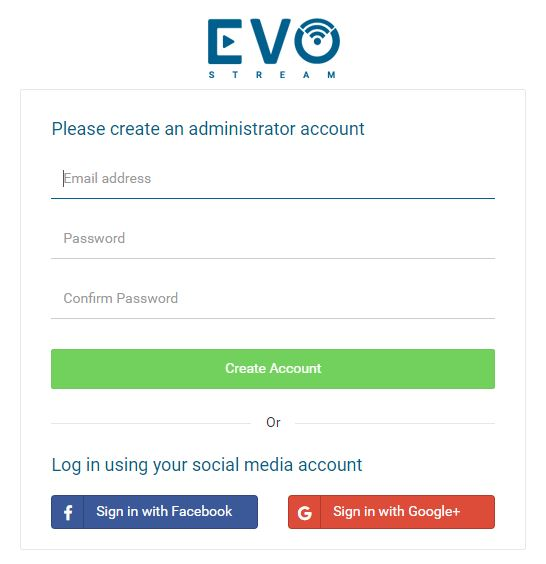
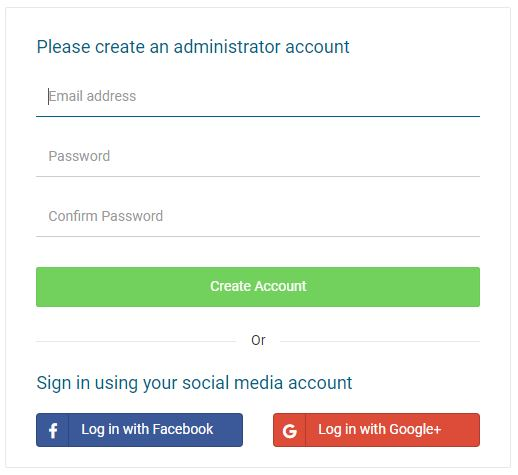
updated some pages

diff --git a/index.md b/index.md
@@ -6,13 +6,13 @@ permalink: index.html
 toc: false
 ---
 
-<a href="/userguide_overview.html"><img src="images/home/userguide.jpg"></a>
+<a href="userguide_overview.html"><img src="images/home/userguide.jpg"></a>
 
-<a href="/api_overview.html"><img src="images/home/api.jpg"></a>
+<a href="api_overview.html"><img src="images/home/api.jpg"></a>
 
-<a href="/html5players_ersoverview.html"><img src="images/home/html5.jpg"></a>
+<a href="html5players_ersoverview.html"><img src="images/home/html5.jpg"></a>
 
-<a href="/emscloud_overview.html"><img src="images/home/emsoncloud.jpg"></a>
+<a href="emscloud_overview.html"><img src="images/home/emsoncloud.jpg"></a>
 
-<a href="/evowebservices_overview.html"><img src="images/home/evowebservices.jpg"></a>
+<a href="evowebservices_overview.html"><img src="images/home/evowebservices.jpg"></a>
 

diff --git a/pages/userguide/userguide_signup.md b/pages/userguide/userguide_signup.md
@@ -9,7 +9,7 @@ toc: true
 
 
 
-To access the EMS Web UI, a user should be added first. There are several options for the users to Sign Up. To Sign up via **email address**, via **Facebook** account and via **Google+** account. 
+To access the EMS Web UI, a user should be added first. You have the option to sign up via **email address** or just log in via **Facebook** account or **Google+** account. 
 
 To proceed with Signing up, go in this URL: `<EMSIPaddress>:4100`
 

diff --git a/pages/userguide/userguide_connectui.md b/pages/userguide/userguide_connectui.md
@@ -1,0 +1,9 @@
+---
+title: Connecting to Web UI
+sidebar: userguide_sidebar
+permalink: userguide_connectui.html
+folder: userguide
+toc: false
+---
+
+
